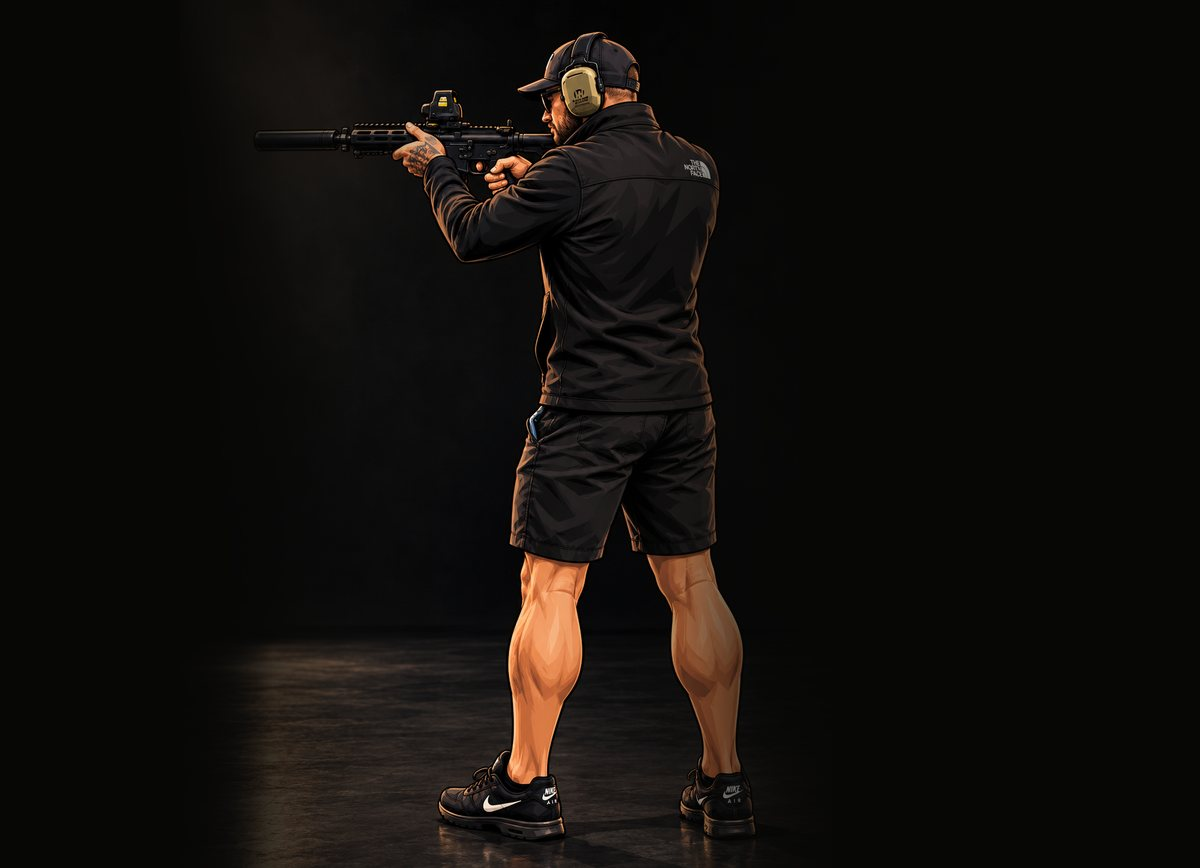
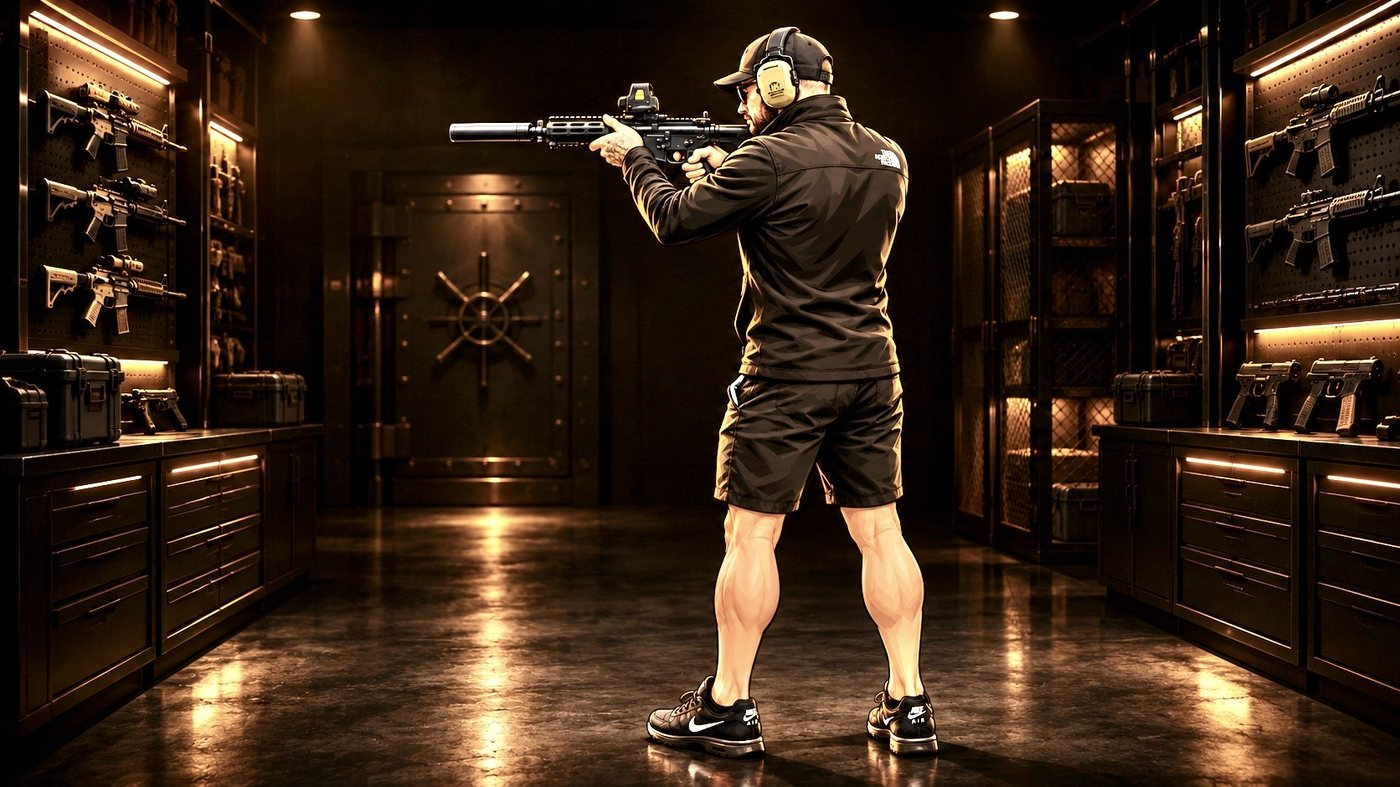
Gun Vault: new vault-room hero with compact title/value overlay. Calendar: fix overlapping fields on iPhone, add repeat on specific days of the week
Claude-Session: https://claude.ai/code/session_01WoTkRTHrDys8Z6X3484mRP

diff --git a/public/app.js b/public/app.js
@@ -689,8 +689,8 @@
     if (GV.data.error) return head + `<div class="empty">${esc(GV.data.error)}</div>`;
     const t = gvTotals(), d = GV.data, imp = GV.importing;
     const banner = imp ? `<div class="pv-prog"><i style="width:${imp.total ? Math.round(((imp.total - imp.left) / imp.total) * 100) : 4}%"></i><span>Bringing in your Safe Ledger${imp.total ? ` · ${imp.total - imp.left} of ${imp.total} files` : "…"}</span></div>` : "";
-    const sum = `<section class="gv-hero"><picture><source srcset="/gv-hero.webp?v=3" type="image/webp"><img src="/gv-hero.jpg?v=3" alt="" draggable="false"></picture>
-      </section><div class="gv-hero-txt"><div class="gv-eb">Safe Ledger</div><div class="gv-title">Gun Vault</div><div class="lbl" style="color:var(--gold);margin-top:14px">Collection value</div><div class="hero-num"><span data-count="${Math.round(t.all)}" data-fmt="usd">${usd(t.all, false)}</span></div></div>
+    const sum = `<section class="gv-hero"><picture><source srcset="/gv-hero.webp?v=4" type="image/webp"><img src="/gv-hero.jpg?v=4" alt="" draggable="false"></picture><div class="gv-hero-txt"><div><div class="gv-eb">Safe Ledger</div><div class="gv-title">Gun Vault</div></div><div><div class="lbl" style="color:var(--gold);text-align:right;font-size:9.5px">Collection value</div><div class="hero-num"><span data-count="${Math.round(t.all)}" data-fmt="usd">${usd(t.all, false)}</span></div></div></div>
+      </section>
       <div class="lux gv-sum" style="--i:0"><div class="cols" style="margin:0;padding:0;border:0"><div><div class="lbl">Firearms</div><div class="v">${d.firearms.length} · ${usd(t.firearms, false)}</div></div>
       <div><div class="lbl">NFA</div><div class="v">${d.nfa.length} · ${usd(t.nfa, false)}</div></div>
       <div><div class="lbl">Mags</div><div class="v">${magCount()} · ${usd(t.mags, false)}</div></div></div></div>`;
@@ -1079,7 +1079,7 @@
   // ---------- Calendar ----------
   const KIND = { work: ["Work", "#d4af37"], med: ["Medication", "#6fd58f"], appt: ["Appointment", "#8fb8ff"], personal: ["Personal", "#e7a6ff"], bill: ["Bill", "#ff9a6b"], other: ["Other", "#bdb39b"] };
   const REMS = [[0, "At time"], [15, "15 min"], [30, "30 min"], [60, "1 hour"], [120, "2 hours"], [1440, "24 hours"], [2880, "2 days"], [10080, "1 week"]];
-  const REP = [["none", "Doesn’t repeat"], ["daily", "Every day"], ["weekdays", "Weekdays"], ["weekly", "Every week"], ["biweekly", "Every 2 weeks"], ["monthly", "Every month"], ["yearly", "Every year"]];
+  const REP = [["none", "Doesn’t repeat"], ["daily", "Every day"], ["weekdays", "Weekdays"], ["days", "Specific days of the week"], ["weekly", "Every week"], ["biweekly", "Every 2 weeks"], ["monthly", "Every month"], ["yearly", "Every year"]];
   const CAL = { month: null, sel: null };
   const dkey = (t) => `${t.getFullYear()}-${String(t.getMonth() + 1).padStart(2, "0")}-${String(t.getDate()).padStart(2, "0")}`;
   const dAdd = (d, n) => { const t = new Date(d + "T12:00:00"); t.setDate(t.getDate() + n); return dkey(t); };
@@ -1089,6 +1089,7 @@
     switch (ev.repeat) {
       case "daily": return true;
       case "weekdays": { const w = dDow(d); return w > 0 && w < 6; }
+      case "days": return (ev.days || []).includes(dDow(d));
       case "weekly": return dDow(d) === dDow(ev.date);
       case "biweekly": return dDow(d) === dDow(ev.date) && Math.round((new Date(d + "T12:00:00") - new Date(ev.date + "T12:00:00")) / 864e5) % 14 === 0;
       case "monthly": return d.slice(8) === ev.date.slice(8);
@@ -1138,16 +1139,20 @@
     sheet(`<h2>${e.id ? "Edit" : "New"} event</h2><form data-form="ev-save" data-id="${e.id || ""}">
       <label>Title</label><input name="title" value="${esc(e.title)}" placeholder="e.g. District meeting, Take meds" required>
       <label>Type</label><div class="cal-kinds">${Object.entries(KIND).map(([k, [n, c]]) => `<label class="cal-kind"><input type="radio" name="kind" value="${k}" ${(e.kind || "work") === k ? "checked" : ""}><span style="--c:${c}">${n}</span></label>`).join("")}</div>
-      <div class="gv-efs" style="margin-top:6px"><div class="gv-ef" style="grid-column:1/-1"><label>Date</label><input type="date" name="date" value="${esc(e.date || d || todayKey())}" required></div>
-      <div class="gv-ef"><label>Start</label><input type="time" name="time" value="${esc(e.time || "")}"></div><div class="gv-ef"><label>End</label><input type="time" name="end" value="${esc(e.end || "")}"></div></div>
-      <div class="sub" style="margin:-2px 0 4px">Leave Start empty for an all-day item (reminders go at 9 AM).</div>
-      <div class="gv-efs"><div class="gv-ef"><label>Repeat</label><select name="repeat">${REP.map(([k, n]) => `<option value="${k}" ${(e.repeat || "none") === k ? "selected" : ""}>${n}</option>`).join("")}</select></div>
-      <div class="gv-ef"><label>Until (optional)</label><input type="date" name="until" value="${esc(e.until || "")}"></div></div>
+      <label>${e.repeat && e.repeat !== "none" ? "Starts" : "Date"}</label><input type="date" name="date" value="${esc(e.date || d || todayKey())}" required>
+      <div class="cal-2"><div><label>Start time</label><input type="time" name="time" value="${esc(e.time || "")}"></div><div><label>End time</label><input type="time" name="end" value="${esc(e.end || "")}"></div></div>
+      <div class="sub" style="margin:4px 0 2px">Leave Start empty for an all-day item (reminders go at 9 AM).</div>
+      <label>Repeat</label><select name="repeat">${REP.map(([k, n]) => `<option value="${k}" ${(e.repeat || "none") === k ? "selected" : ""}>${n}</option>`).join("")}</select>
+      <div class="cal-days" ${(e.repeat || "none") === "days" ? "" : "hidden"}>${["S", "M", "T", "W", "T", "F", "S"].map((n, i) => `<label class="cal-rem cal-dw"><input type="checkbox" name="dw" value="${i}" ${(e.days || [new Date((e.date || d || todayKey()) + "T12:00:00").getDay()]).includes(i) ? "checked" : ""}><span>${n}</span></label>`).join("")}</div>
+      <div class="cal-until" ${(e.repeat || "none") === "none" ? "hidden" : ""}><label>Ends (optional)</label><input type="date" name="until" value="${esc(e.until || "")}"></div>
       <label>Remind me</label><div class="cal-rems">${REMS.map(([v, n]) => `<label class="cal-rem"><input type="checkbox" name="rem" value="${v}" ${r.includes(v) ? "checked" : ""}><span>${n}</span></label>`).join("")}</div>
       <label>Location</label><input name="location" value="${esc(e.location || "")}">
       <label>Notes</label><textarea name="notes">${esc(e.notes || "")}</textarea>
       <div class="actions">${e.id ? `<button type="button" class="btn danger" data-act="ev-del" data-id="${e.id}">Delete</button>` : ""}<span class="sp"></span><button type="button" class="btn ghost" data-act="close">Cancel</button><button class="btn">Save</button></div></form>`);
-    document.querySelectorAll('form[data-form="ev-save"] [name=kind]').forEach((x) => x.addEventListener("change", () => { if (x.value === "med" && !e.id) { const f = x.form; f.repeat.value = "daily"; f.querySelectorAll("[name=rem]").forEach((c) => (c.checked = c.value === "0")); } }));
+    const F = document.querySelector('form[data-form="ev-save"]');
+    const sync = () => { F.querySelector(".cal-days").hidden = F.repeat.value !== "days"; F.querySelector(".cal-until").hidden = F.repeat.value === "none"; };
+    F.repeat.addEventListener("change", sync);
+    F.querySelectorAll("[name=kind]").forEach((x) => x.addEventListener("change", () => { if (x.value === "med" && !e.id) { F.repeat.value = "daily"; F.querySelectorAll("[name=rem]").forEach((c) => (c.checked = c.value === "0")); sync(); } }));
   }
   function evOpen(id, d) {
     const e = (D.events || []).find((x) => x.id === id); if (!e) return;
@@ -1155,7 +1160,7 @@
     const rem = (e.reminders || []).map((v) => (REMS.find(([x]) => x === v) || [, v + " min"])[1]).join(", ") || "None";
     sheet(`<div class="cal-dh"><span class="cal-bar" style="background:${kc}"></span><div><h2 style="margin:0">${esc(e.title)}</h2><div class="sub">${esc(kn)}</div></div></div>
       <div class="gv-kv"><span>When</span><b>${esc(dayLabel(d))} · ${clk(e.time)}${e.end ? "–" + clk(e.end) : ""}</b></div>
-      ${e.repeat !== "none" ? `<div class="gv-kv"><span>Repeats</span><b>${esc(REP.find(([k]) => k === e.repeat)[1])}${e.until ? " until " + esc(e.until) : ""}</b></div>` : ""}
+      ${e.repeat !== "none" ? `<div class="gv-kv"><span>Repeats</span><b>${esc(e.repeat === "days" ? "Every " + (e.days || []).map((x) => ["Sun", "Mon", "Tue", "Wed", "Thu", "Fri", "Sat"][x]).join(", ") : REP.find(([k]) => k === e.repeat)[1])}${e.until ? " until " + esc(e.until) : ""}</b></div>` : ""}
       <div class="gv-kv"><span>Reminders</span><b>${esc(rem)}</b></div>
       ${e.location ? `<div class="gv-kv"><span>Where</span><b><a href="https://maps.apple.com/?q=${encodeURIComponent(e.location)}" target="_blank" rel="noopener" style="color:var(--gold2)">${esc(e.location)}</a></b></div>` : ""}
       ${e.notes ? `<div class="gv-notes" style="margin-top:12px">${esc(e.notes)}</div>` : ""}
@@ -1327,7 +1332,7 @@
       switch (f.dataset.form) {
         case "gerald": f.reset(); askGerald(v.q); break;
         case "gv-save": await gvSubmit(f); break;
-        case "ev-save": { const fd = new FormData(f); const body = { title: v.title, kind: fd.get("kind") || "other", date: v.date, time: v.time, end: v.end, repeat: v.repeat, until: v.until, location: v.location, notes: v.notes, reminders: fd.getAll("rem").map(Number) };
+        case "ev-save": { const fd = new FormData(f); const body = { title: v.title, kind: fd.get("kind") || "other", date: v.date, time: v.time, end: v.end, repeat: v.repeat, days: fd.getAll("dw").map(Number), until: v.repeat === "none" ? "" : v.until, location: v.location, notes: v.notes, reminders: fd.getAll("rem").map(Number) };
           const old = f.dataset.id && D.events.find((x) => x.id === f.dataset.id); await save("events", { ...(old || {}), ...body, ...(old ? { id: old.id } : {}) }); closeSheet(); CAL.sel = body.date; CAL.month = body.date.slice(0, 7);
           if (typeof Notification !== "undefined" && Notification.permission !== "granted" && body.reminders.length) toast("Turn on reminders on the Calendar page to get alerts"); else toast("Saved"); break; }
         case "pw-create": case "pw-unlock": case "pw-save": case "pw-newmaster": await pwSubmit(f, v); break;

diff --git a/public/index.html b/public/index.html
@@ -378,13 +378,13 @@ body{padding-bottom:calc(env(safe-area-inset-bottom) + var(--tab) + 22px)}
 /* Gun Vault hero */
 .gv-h1{position:relative;z-index:2}
 .top{position:relative;z-index:3}
-.gv-hero{position:relative;margin:calc(-64px - env(safe-area-inset-top) - 10px) -16px 0;padding-top:calc(env(safe-area-inset-top) + 50px);height:min(112vw,480px);overflow:hidden;z-index:0;-webkit-mask-image:linear-gradient(180deg,transparent 0,#000 calc(env(safe-area-inset-top) + 90px),#000 82%,transparent 100%);mask-image:linear-gradient(180deg,transparent 0,#000 calc(env(safe-area-inset-top) + 90px),#000 82%,transparent 100%)}
-.gv-hero picture{display:block;height:100%}.gv-hero img{width:100%;height:100%;object-fit:cover;object-position:50% 100%;-webkit-mask-image:linear-gradient(90deg,transparent 0,#000 18%,#000 82%,transparent 100%);mask-image:linear-gradient(90deg,transparent 0,#000 18%,#000 82%,transparent 100%);display:block;-webkit-user-select:none;user-select:none}
-.gv-hero::before{content:none}
-.gv-eb{font-size:11px;letter-spacing:.4em;text-transform:uppercase;color:var(--gold);font-weight:600}
-.gv-title{font:400 46px/1.05 "Didot","Bodoni 72",Georgia,serif;color:#fbf3dc;margin-top:6px;text-shadow:0 4px 18px rgba(0,0,0,.8)}
-.gv-hero-txt{position:relative;z-index:2;text-align:center;margin-top:-4px}
-.gv-hero-txt .hero-num{font-size:34px;text-shadow:0 4px 18px rgba(0,0,0,.8)}
+.gv-hero{position:relative;margin:calc(-64px - env(safe-area-inset-top) - 10px) -16px 0;height:calc(min(100vw,720px) * .8 + env(safe-area-inset-top));overflow:hidden;z-index:0;-webkit-mask-image:linear-gradient(180deg,#000 85%,transparent);mask-image:linear-gradient(180deg,#000 85%,transparent)}
+.gv-hero picture{position:absolute;left:0;right:0;bottom:0;top:calc(env(safe-area-inset-top) + 4px)}.gv-hero img{width:100%;height:100%;object-fit:cover;object-position:56% 0%;display:block;-webkit-user-select:none;user-select:none}
+.gv-hero::before{content:"";position:absolute;inset:0;background:linear-gradient(180deg,#050505 0,#050505 env(safe-area-inset-top),rgba(5,5,5,0) calc(env(safe-area-inset-top) + 40px)),linear-gradient(0deg,rgba(5,5,5,.92) 0,rgba(5,5,5,.6) 70px,rgba(5,5,5,0) 40%);z-index:1;pointer-events:none}
+.gv-eb{font-size:9.5px;letter-spacing:.34em;text-transform:uppercase;color:var(--gold);font-weight:600}
+.gv-title{font:400 30px/1.05 "Didot","Bodoni 72",Georgia,serif;color:#fbf3dc;margin-top:6px;text-shadow:0 4px 18px rgba(0,0,0,.8)}
+.gv-hero-txt{position:absolute;left:18px;right:18px;bottom:22px;z-index:2;display:flex;align-items:flex-end;justify-content:space-between;gap:10px}
+.gv-hero-txt .hero-num{font-size:26px;margin:2px 0 0;text-align:right;text-shadow:0 4px 18px rgba(0,0,0,.8)}
 .gv-sum{margin-top:4px;padding:14px 16px}
 
 /* Calendar */
@@ -413,6 +413,14 @@ body{padding-bottom:calc(env(safe-area-inset-bottom) + var(--tab) + 22px)}
 .cal-kind span,.cal-rem span{display:inline-block;padding:7px 12px;border-radius:999px;border:1px solid rgba(212,175,55,.3);font-size:13.5px;color:#cfc6b0;cursor:pointer}
 .cal-kind span::before{content:"";display:inline-block;width:8px;height:8px;border-radius:50%;background:var(--c);margin-right:7px;vertical-align:1px}
 .cal-kind input:checked+span,.cal-rem input:checked+span{background:var(--goldg);color:#1a1306;border-color:transparent;font-weight:600}
+.cal-2{display:grid;grid-template-columns:minmax(0,1fr) minmax(0,1fr);gap:10px}
+.cal-2>div{min-width:0}
+form[data-form="ev-save"] input,form[data-form="ev-save"] select{width:100%;max-width:100%;min-width:0;box-sizing:border-box;display:block}
+form[data-form="ev-save"] input[type=date],form[data-form="ev-save"] input[type=time]{-webkit-appearance:none;appearance:none;min-height:46px;text-align:left}
+form[data-form="ev-save"] input[type=date]::-webkit-date-and-time-value,form[data-form="ev-save"] input[type=time]::-webkit-date-and-time-value{text-align:left}
+.cal-days{display:flex;justify-content:space-between;gap:6px;margin:10px 0 2px}
+.cal-days[hidden],.cal-until[hidden]{display:none}
+.cal-dw{flex:1}.cal-dw span{display:grid;place-items:center;width:100%;height:40px;padding:0;border-radius:50%;max-width:42px;margin:0 auto}
 .cal-dh{display:flex;gap:12px;align-items:stretch;margin-bottom:10px}
 .hc-row{display:flex;align-items:center;gap:10px;padding:7px 0}
 .hc-row+.hc-row{border-top:1px solid rgba(212,175,55,.1)}
@@ -425,6 +433,6 @@ body{padding-bottom:calc(env(safe-area-inset-bottom) + var(--tab) + 22px)}
 <body>
 <div id="cf"></div>
 <main id="app"><div class="empty">Loading…</div></main>
-<script src="/app.js?v=41"></script>
+<script src="/app.js?v=43"></script>
 </body>
 </html>
